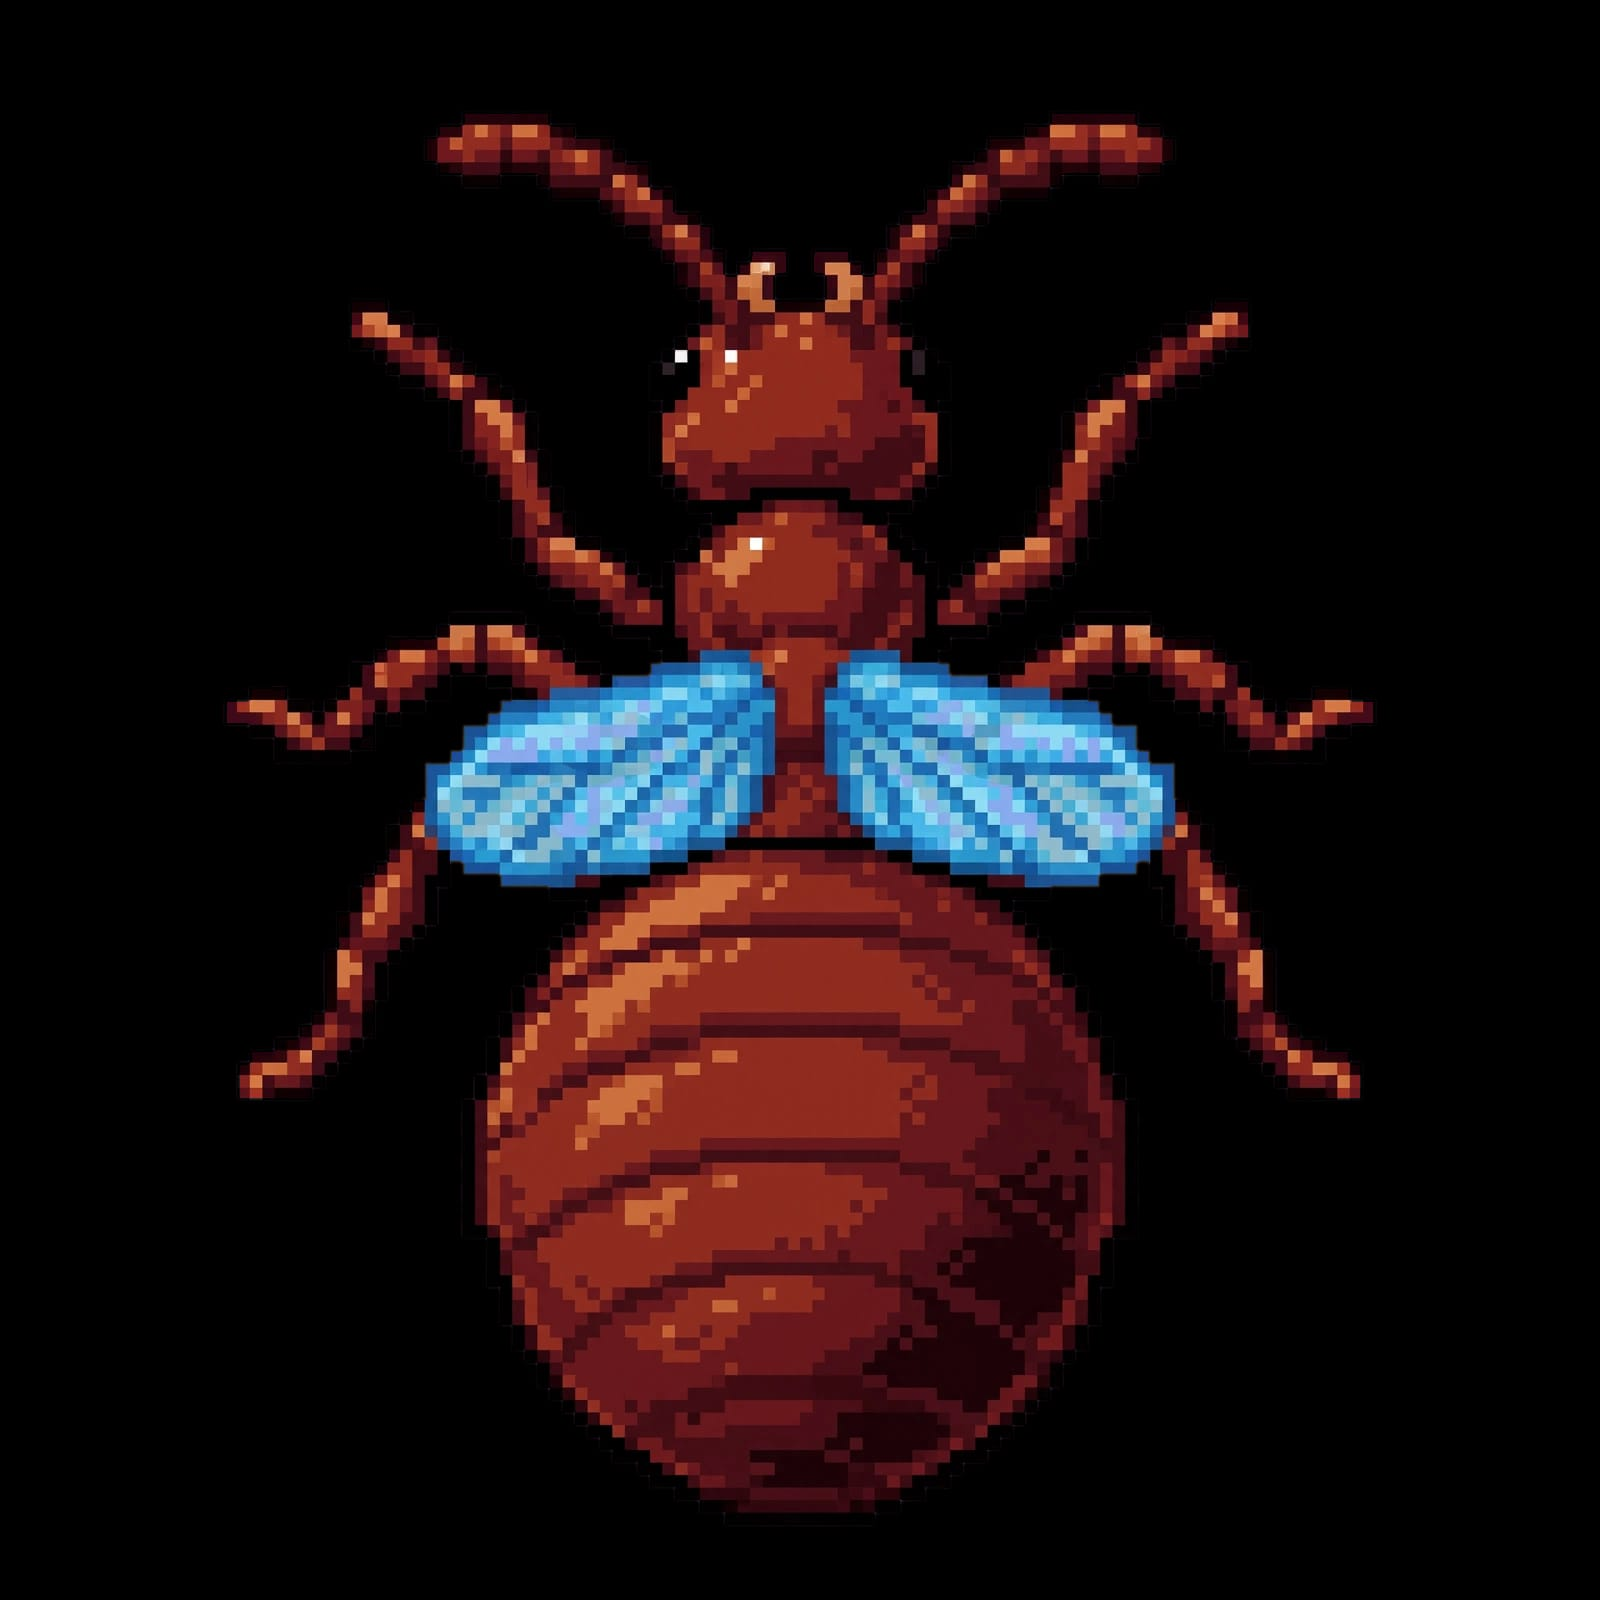
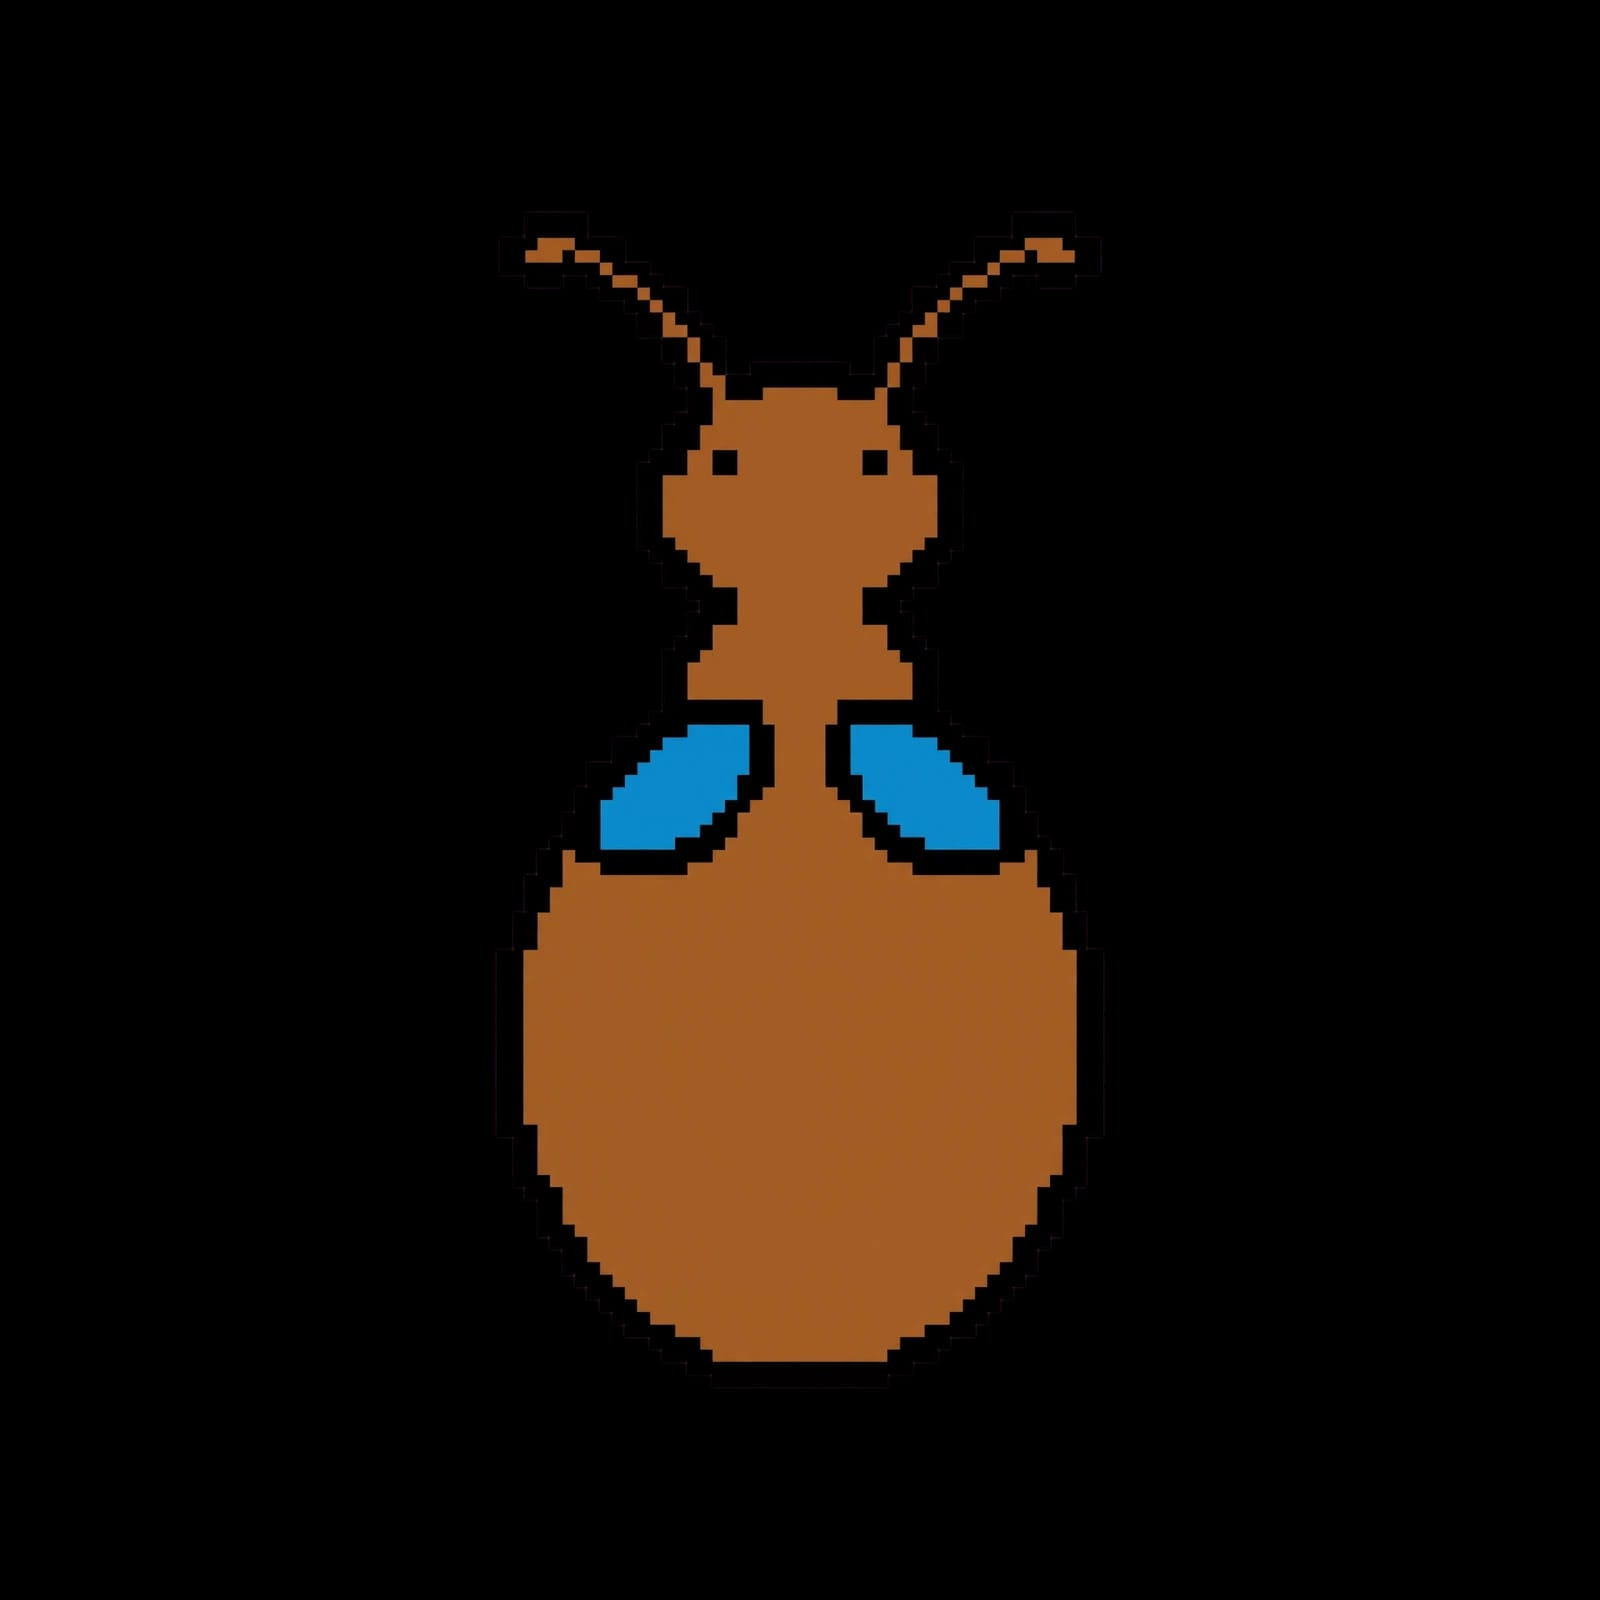
Add transparent ant sprites

Changed region(s): [[0.125, 0.0625, 0.875, 0.9688]]

diff --git a/.codex/PROJECT_CONTEXT.md b/.codex/PROJECT_CONTEXT.md
@@ -5,8 +5,8 @@
 - Format: 2D idle game.
 - Theme: managing an ant colony.
 - Core objective: “big number goes bigger.”
-- Main-game visuals: use only `Polygon2D` nodes and particles for game elements.
-- Assets: reserve assets for GUI elements; the main game should not use imported art assets.
+- Main-game visuals use `Polygon2D` nodes and particles, with role-specific transparent pixel-art sprites for queens, workers, and defenders.
+- Other imported artwork remains reserved for GUI elements; ant sprites are stored as transparent `Queen.png`, `Worker.png`, and `Warrior.png` files in `assets/Ants`, converted from the corresponding JPEG sources.
 
 ## Version menu
 
@@ -14,7 +14,7 @@
 - Play opens `MainScene.tscn`; Reset clears the saved colony and restores starting values; Exit quits the game.
 - `scenes/queen_ant_1.tscn` remains a separate playable variant using the existing food-source foraging loop.
 - Both game scenes can return to the main menu through their in-game Main Menu buttons.
-- GUI buttons in the main menu and both playable scenes use the pixel-art button slices from `assets/GUI/FreeDemo.png` for normal, hover, and pressed states. Food and live-ant counter labels sit on matching nine-sliced atlas panels. Keep imported artwork limited to GUI; game-world visuals remain polygons and particles.
+- GUI buttons in the main menu and both playable scenes use the pixel-art button slices from `assets/GUI/FreeDemo.png` for normal, hover, and pressed states. Food and live-ant counter labels sit on matching nine-sliced atlas panels. Food and other world visuals remain polygons and particles; queens, workers, and defenders use their transparent role-specific ant sprites.
 
 ## Food amount
 

diff --git a/.codex/ant_source_behavior_and_plan.md b/.codex/ant_source_behavior_and_plan.md
@@ -2,7 +2,7 @@
 
 ## Visuals and scene structure
 
-- Use `Polygon2D` ants and food; workers are 2 by 3 AntSource-local units. The shared `AntSource` world root is scaled 4x in both variants, so all game objects and world spacing render at four times their local size while CanvasLayer GUI elements remain unchanged. Do not add imported game art.
+- Use transparent role-specific pixel-art sprites for queens, workers, and defenders from `assets/Ants`; food remains `Polygon2D`. Worker sprites are 2 by 3 AntSource-local units, queens 6 by 9, and defenders 4 by 8. The shared `AntSource` world root is scaled 4x in both variants, so all game objects and world spacing render at four times their local size while CanvasLayer GUI elements remain unchanged. Preserve nearest-neighbor filtering for crisp pixel edges.
 - `AntSource` owns the queen, worker, and warrior ants directly. In both variants, workers are divided as evenly as possible among queen-led groups, with group sizes differing by at most one. One queen means one group contains all workers; there is no per-group cap.
 - Queens spawn at `QUEEN_SPAWN_POSITION`, 32 pixels above the AntSource origin. Workers spawn at random points inside the queen-centered 10 by 10 pixel deposit square, then join the smallest eligible leader group, with nearest leader breaking ties.
 - Expired Queen Ant 1 workers disappear completely.

diff --git a/.codex/agents.md b/.codex/agents.md
@@ -4,8 +4,8 @@
 - Develop for and on Android.
 - Make a 2D idle game about managing an ant colony.
 - The core objective is “big number goes bigger.”
-- Main-game elements must be represented with `Polygon2D` nodes or particles.
-- Do not use assets for the main game; assets may be used only for GUI elements.
+- Main-game elements use `Polygon2D` nodes or particles, except that queens, workers, and defenders use the role-specific transparent pixel-art sprites in `assets/Ants`.
+- Other imported artwork is limited to GUI elements.
 - The shared `AntSource` world root is scaled 4x in both playable scenes, quadrupling every game object's rendered size and world spacing. CanvasLayer GUI elements stay at their original size.
 
 ## Ant behavior contract
